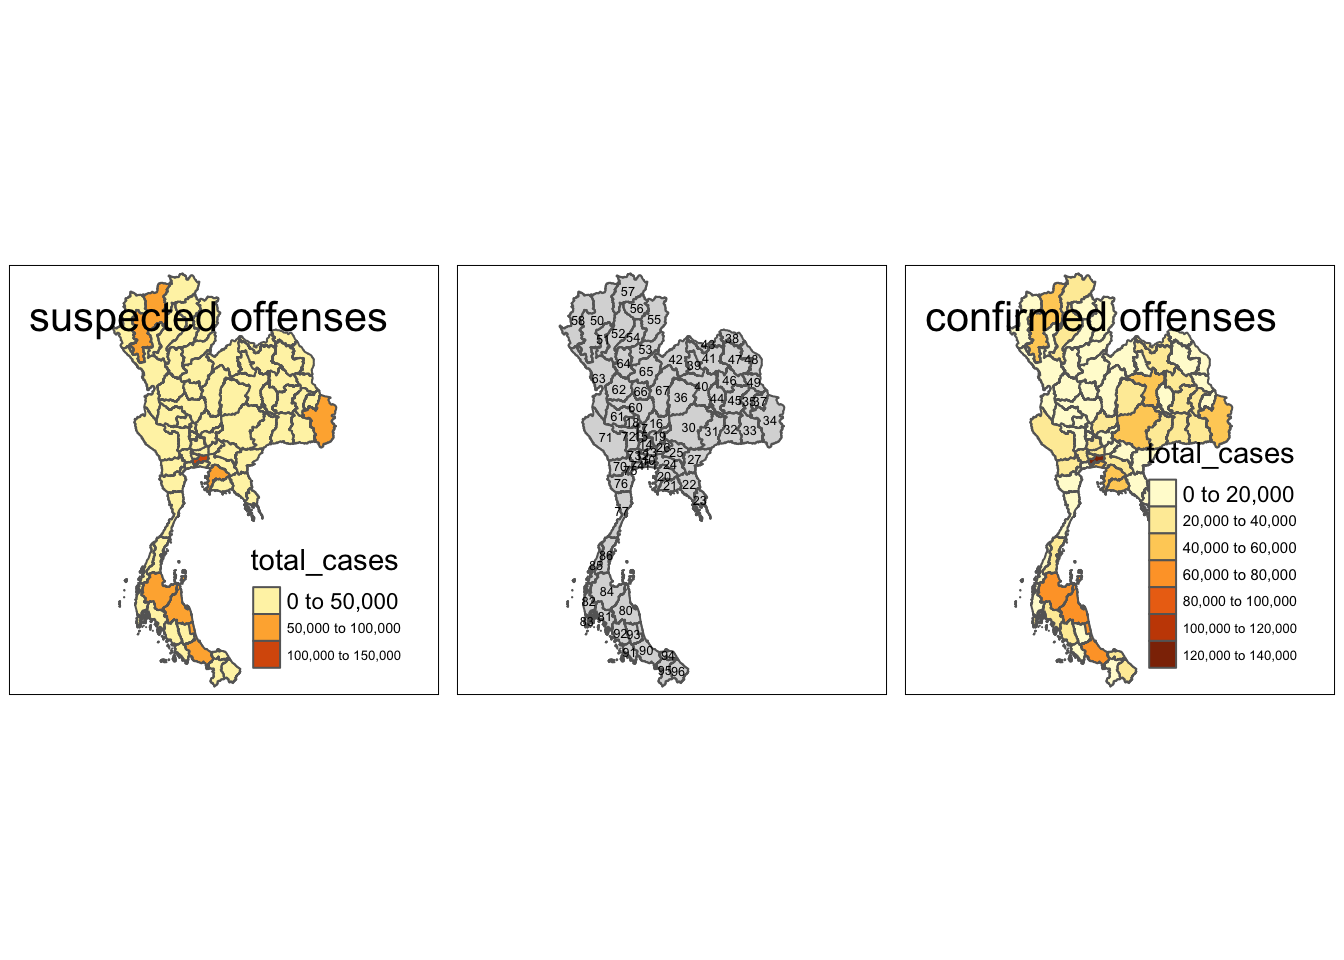
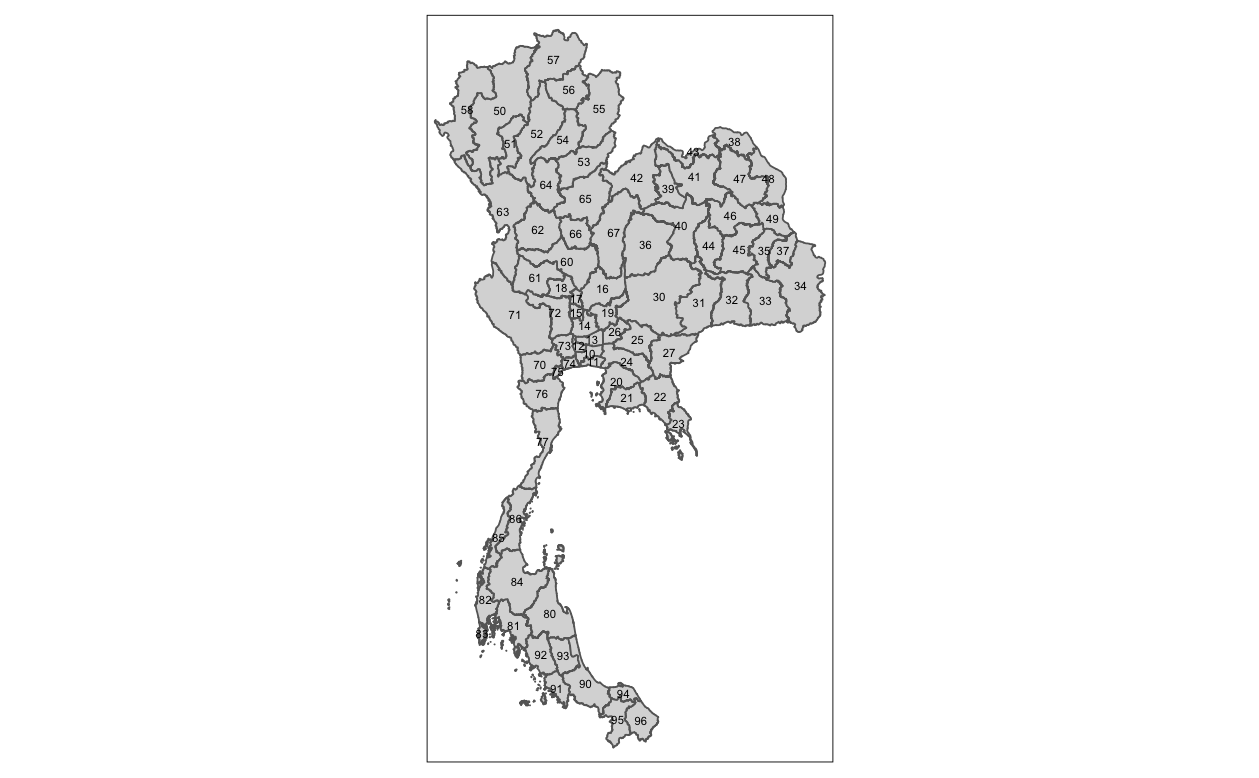
visual edits

Changed region(s): [[0.0, 0.0308, 0.9603, 0.9871], [0.9913, 0.2776, 1.0, 0.7095]]

diff --git a/_site/resources/Take-home_Ex/ex2/Take-home_Ex_2.html b/_site/resources/Take-home_Ex/ex2/Take-home_Ex_2.html
@@ -612,15 +612,16 @@ Geodetic CRS:  WGS 84</code></pre>
 <div class="cell">
 <details class="code-fold">
 <summary>Code</summary>
-<div class="sourceCode cell-code" id="cb33"><pre class="sourceCode r code-with-copy"><code class="sourceCode r"><span id="cb33-1"><a href="#cb33-1" aria-hidden="true" tabindex="-1"></a>basemap <span class="ot">&lt;-</span> <span class="fu">tm_shape</span>(combined_offenses_sf) <span class="sc">+</span> <span class="fu">tm_polygons</span>() <span class="sc">+</span> <span class="fu">tm_text</span>(<span class="st">"ADM1_PCODE"</span>,<span class="at">size =</span> <span class="fl">0.4</span>)</span>
-<span id="cb33-2"><a href="#cb33-2" aria-hidden="true" tabindex="-1"></a>offenses <span class="ot">&lt;-</span> <span class="fu">qtm</span>(combined_offenses_sf,<span class="st">"total_cases"</span>,<span class="at">title =</span> <span class="st">'confirmed offenses'</span>)</span>
-<span id="cb33-3"><a href="#cb33-3" aria-hidden="true" tabindex="-1"></a>suspects <span class="ot">&lt;-</span> <span class="fu">qtm</span>(combined_suspected_offenses_sf,<span class="st">"total_cases"</span>, <span class="at">title =</span> <span class="st">'suspected offenses'</span>)</span>
-<span id="cb33-4"><a href="#cb33-4" aria-hidden="true" tabindex="-1"></a><span class="fu">tmap_arrange</span>(suspects, basemap, offenses, <span class="at">asp=</span><span class="dv">1</span>, <span class="at">ncol=</span><span class="dv">3</span>)</span></code><button title="Copy to Clipboard" class="code-copy-button"><i class="bi"></i></button></pre></div>
+<div class="sourceCode cell-code" id="cb33"><pre class="sourceCode r code-with-copy"><code class="sourceCode r"><span id="cb33-1"><a href="#cb33-1" aria-hidden="true" tabindex="-1"></a><span class="fu">tm_shape</span>(combined_offenses_sf) <span class="sc">+</span> <span class="fu">tm_polygons</span>() <span class="sc">+</span> <span class="fu">tm_text</span>(<span class="st">"ADM1_PCODE"</span>,<span class="at">size =</span> <span class="fl">0.4</span>)</span>
+<span id="cb33-2"><a href="#cb33-2" aria-hidden="true" tabindex="-1"></a><span class="fu">qtm</span>(combined_offenses_sf,<span class="st">"total_cases"</span>,<span class="at">title =</span> <span class="st">'confirmed offenses'</span>)</span>
+<span id="cb33-3"><a href="#cb33-3" aria-hidden="true" tabindex="-1"></a><span class="fu">qtm</span>(combined_suspected_offenses_sf,<span class="st">"total_cases"</span>, <span class="at">title =</span> <span class="st">'suspected offenses'</span>)</span>
 </details>
 <div class="cell-output-display">
 <div>
 <figure class="figure">
 <p><img src="Take-home_Ex_2_files/figure-html/unnamed-chunk-23-1.png" class="img-fluid figure-img" width="672"></p>
+<p><img src="Take-home_Ex_2_files/figure-html/unnamed-chunk-23-2.png" class="img-fluid figure-img" width="672"></p>
+<p><img src="Take-home_Ex_2_files/figure-html/unnamed-chunk-23-3.png" class="img-fluid figure-img" width="672"></p>
 </figure>
 </div>
 </div>
